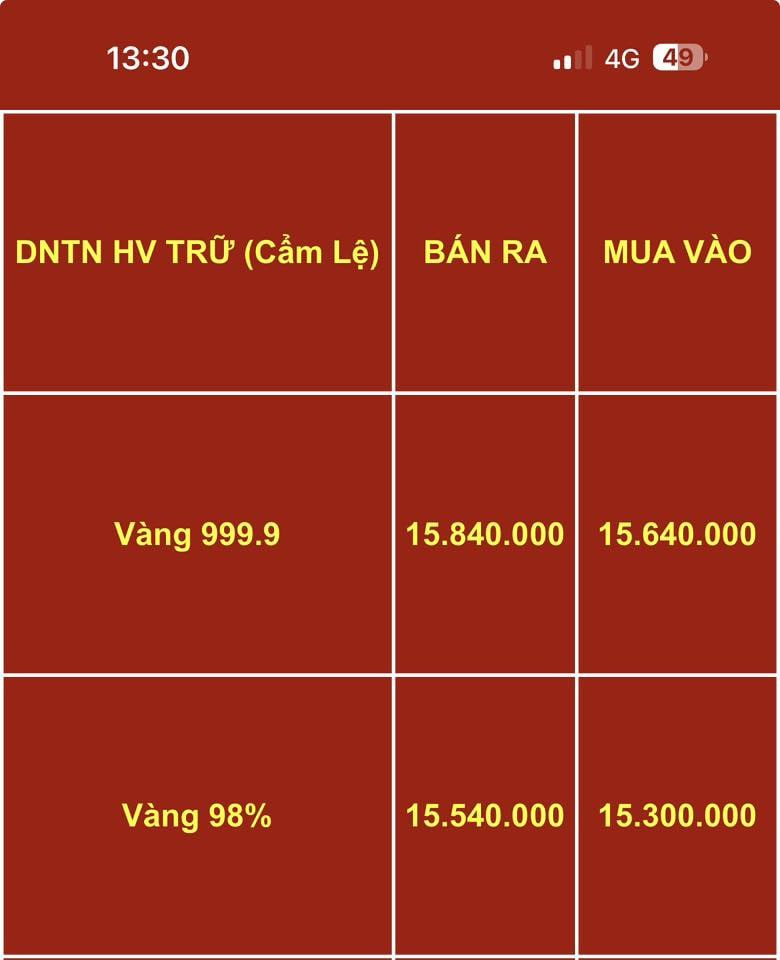
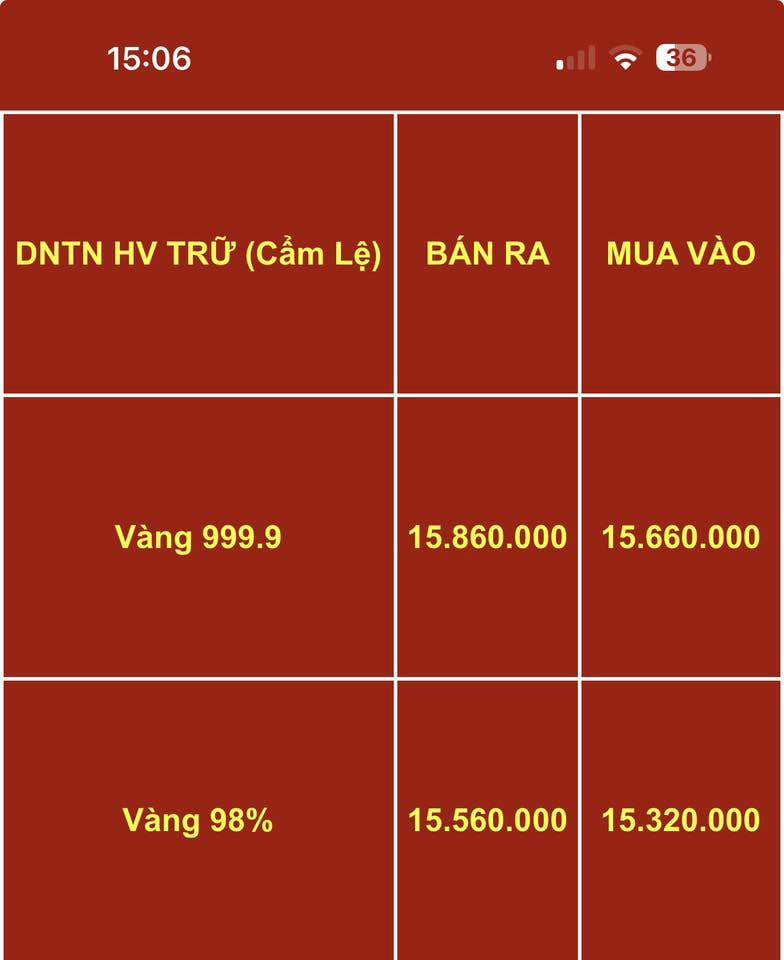
Update tru-cam-le price image (15:32)

diff --git a/app/data/goldShops.ts b/app/data/goldShops.ts
@@ -33,7 +33,7 @@ export const GOLD_SHOPS: GoldShop[] = [
     name: "Trữ Cẩm Lệ",
     location: "Đà Nẵng",
     image: "images/tru-cam-le.jpg",
-    updatedAt: "13:54",
+    updatedAt: "15:32",
   },
 ];
 
